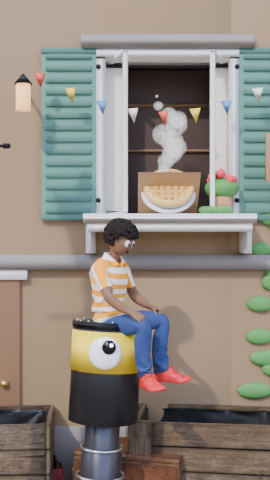
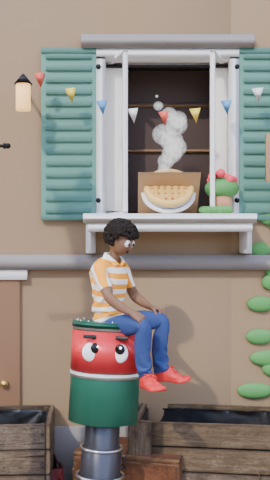
ep018 ronda 2: bolardo rediseñado
Claude-Session: https://claude.ai/code/session_01LrSQNzCqj6aM3qn1tHEPiB

Changed region(s): [[0.237, 0.6562, 0.5333, 0.9062]]

diff --git a/anim/episodes/ep018.py b/anim/episodes/ep018.py
@@ -33,11 +33,11 @@ PIE_P = Vector((WX, 1.289, SILL + 0.21))   # tarta apoyada en una tabla inclinad
 PIE_RX = 50.0
 E1, E2 = 0.7, 1.65                      # extensión: 1.er estirón (corto) y 2.º (llega)
 LEAN_PIE = Vector((0.57, 0.82))         # dirección de la inclinación hacia la ventana
-LEAN_EAT = Vector((0.60, -0.80))        # inclinación hacia el hombre en el remate
+LEAN_EAT = Vector((0.30, -0.95))        # inclinación hacia el hombre en el remate
 MAN_D = Vector((BP.x + 0.88, BP.y - 0.55, 0.0))   # hombre de pie junto al bolardo (remate y final)
 YAW_D = -42.0
 F_GRAB, F_DESC0, F_DESC1, F_CUT_D, F_CUT_E = 150, 170, 192, 196, 270
-F_LID0, F_CHOMP, F_SHRUG = 212, 236, 246
+F_LID0, F_CHOMP, F_SHRUG = 212, 240, 250
 
 
 def R(d): return math.radians(d)
@@ -73,9 +73,9 @@ def lean_pie(f):
 def lean_eat(f):
     if f < F_LID0: return 0.0
     if f < F_LID0 + 16: return 0.42 * seg01(f, F_LID0, F_LID0 + 16)
-    if f < F_CHOMP - 2: return 0.42
-    if f < F_CHOMP + 3: return lerp(0.42, 0.62, seg01(f, F_CHOMP - 2, F_CHOMP + 3))
-    if f < F_CHOMP + 18: return lerp(0.62, 0.0, seg01(f, F_CHOMP + 3, F_CHOMP + 18))
+    if f < F_CHOMP - 8: return 0.42
+    if f < F_CHOMP + 4: return lerp(0.42, 0.60, seg01(f, F_CHOMP - 8, F_CHOMP + 4))
+    if f < F_CHOMP + 20: return lerp(0.60, 0.0, seg01(f, F_CHOMP + 4, F_CHOMP + 20))
     return 0.0
 
 
@@ -83,14 +83,14 @@ def lid_open(f):
     """Ángulo (grados) de la tapa-boca del bolardo."""
     if f < F_LID0: return 0.0
     if f < F_LID0 + 10: return 100.0 * seg01(f, F_LID0, F_LID0 + 10)
-    if f < F_CHOMP - 2: return 100.0 + 3 * math.sin((f - F_LID0) * 0.7)
-    if f < F_CHOMP + 2: return lerp(100.0, 0.0, seg01(f, F_CHOMP - 2, F_CHOMP + 2))
-    if f < F_CHOMP + 7: return 14.0 * math.sin(math.pi * (f - F_CHOMP - 2) / 5.0)     # rebota al cerrar
+    if f < F_CHOMP - 6: return 100.0 + 3 * math.sin((f - F_LID0) * 0.7)
+    if f < F_CHOMP + 4: return lerp(100.0, 0.0, seg01(f, F_CHOMP - 6, F_CHOMP + 4))
+    if f < F_CHOMP + 9: return 14.0 * math.sin(math.pi * (f - F_CHOMP - 4) / 5.0)     # rebota al cerrar
     return 0.0
 
 
 def bulge(f):
-    t = f - (F_CHOMP + 3)
+    t = f - (F_CHOMP + 5)
     return 0.16 * math.sin(math.pi * t / 10.0) if 0 <= t <= 10 else 0.0
 
 
@@ -99,11 +99,11 @@ def shake(f):
 
 
 # mirada del ojo: (fotograma, gx, gz, párpado superior 0-1, inferior 0-1, tamaño del ojo)
-GAZE = [(1, 0.55, 0.85, 0.0, 0.0, 1.10), (36, 0.55, 0.85, 0.0, 0.0, 1.25), (46, 0.55, 0.9, 0.0, 0.0, 1.25),
+GAZE = [(1, 0.35, 1.0, 0.0, 0.0, 1.20), (36, 0.35, 1.0, 0.0, 0.0, 1.40), (46, 0.55, 0.9, 0.0, 0.0, 1.25),
         (72, 0.55, 1.0, 0.0, 0.0, 1.2), (100, 0.6, 1.0, 0.1, 0.0, 1.2), (104, 0.6, 1.0, 0.45, 0.25, 1.15), (120, 0.6, 1.0, 0.5, 0.3, 1.15),
         (123, 0.6, 1.0, 0.0, 0.0, 1.25), (146, 0.5, 0.7, 0.0, 0.0, 1.3), (158, 0.1, -0.6, 0.0, 0.0, 1.15), (190, -0.1, -0.5, 0.4, 0.4, 1.1),
         (F_CUT_D, 0.2, -0.3, 0.0, 0.0, 1.2), (F_LID0 - 2, 0.2, -0.3, 0.0, 0.0, 1.3), (F_CHOMP - 1, 0.3, -0.2, 0.0, 0.0, 1.4),
-        (F_CHOMP + 2, 0.0, 0.0, 0.9, 0.9, 1.1), (F_SHRUG + 4, 0.0, 0.0, 0.9, 0.9, 1.1), (262, 0.0, 0.0, 1.0, 1.0, 1.1),
+        (F_CHOMP + 6, 0.0, 0.0, 0.9, 0.9, 1.1), (F_SHRUG + 4, 0.0, 0.0, 0.9, 0.9, 1.1), (262, 0.0, 0.0, 1.0, 1.0, 1.1),
         (267, 0.0, 0.0, 1.0, 1.0, 1.1), (272, 0.3, 0.9, 0.0, 0.0, 1.1), (284, 0.5, 0.9, 0.0, 0.0, 1.2), (300, 0.55, 0.85, 0.0, 0.0, 1.3),
         (312, 0.55, 0.85, 0.0, 0.0, 1.3)]
 
@@ -254,8 +254,8 @@ def build_facade(S):
 
 # ------------------------------------------------------------------ bolardo
 def build_bollard(S):
-    black = mmat(S, "bolardo_negro", (0.015, 0.015, 0.018), 0.35, 0.2); steel = mmat(S, "bolardo_acero", (0.55, 0.55, 0.57), 0.25, 0.95)
-    yel = mmat(S, "bolardo_banda", (0.98, 0.74, 0.03), 0.45); tooth = mmat(S, "diente", (0.95, 0.92, 0.82), 0.35)
+    black = mmat(S, "bolardo_verde", (0.025, 0.16, 0.10), 0.35, 0.35); steel = mmat(S, "bolardo_acero", (0.55, 0.55, 0.57), 0.25, 0.95)
+    yel = mmat(S, "bolardo_banda_roja", (0.78, 0.04, 0.05), 0.35, 0.1); refl = mmat(S, "bolardo_reflectante", (0.92, 0.92, 0.90), 0.25, 0.2); brow_m = mmat(S, "ceja", (0.01, 0.03, 0.02), 0.5); tooth = mmat(S, "diente", (0.95, 0.92, 0.82), 0.35)
     throat = mmat(S, "garganta", (0.35, 0.02, 0.04), 0.5); ring_m = mmat(S, "anillo_tel", (0.07, 0.07, 0.08), 0.3, 0.6)
     white = mmat(S, "ojo_blanco", (0.97, 0.97, 0.95), 0.25); pup = mmat(S, "pupila", (0.0, 0.0, 0.0), 0.15); glint = mmat(S, "brillo", (1, 1, 1), 0.1, 0.0, ((1, 1, 1), 3.0))
     bol = S.empty("bolardo", (BP.x, BP.y, 0))
@@ -270,7 +270,9 @@ def build_bollard(S):
     head = S.empty("cabeza_b", (0, 0, 0.2), bol)
     O(S, "cylinder", "cabeza", black, (0, 0, 0.40), (0.30, 0.30, 0.40), parent=head, vertices=48)
     O(S, "cylinder", "banda", yel, (0, 0, 0.60), (0.306, 0.306, 0.17), parent=head, vertices=48)
-    O(S, "cylinder", "garganta", throat, (0, 0, 0.792), (0.27, 0.27, 0.004), parent=head, vertices=40)
+    for zz in (0.60 - 0.135, 0.60 + 0.135, 0.60):       # franjas blancas reflectantes
+        O(S, "cylinder", "franja", refl, (0, 0, zz), (0.3085, 0.3085, 0.018), parent=head, vertices=48) if zz != 0.60 else None
+    O(S, "cylinder", "garganta", throat, (0, 0, 0.803), (0.27, 0.27, 0.004), parent=head, vertices=40)
     for i in range(16):
         a = R(i * 22.5 + 10); O(S, "cone", "diente_b", tooth, (0.27 * math.cos(a), 0.27 * math.sin(a), 0.83), (0.024, 0.024, 0.034), parent=head, vertices=8, radius1=1.0, radius2=0.0, depth=2.0)
     hinge = S.empty("bisagra_tapa", (0, 0.30, 0.81), head)
@@ -278,16 +280,19 @@ def build_bollard(S):
     O(S, "cylinder", "tapa_borde", steel, (0, -0.30, 0.03), (0.30, 0.30, 0.006), parent=hinge, vertices=48)
     for i in range(16):
         a = R(i * 22.5 + 25); O(S, "cone", "diente_t", tooth, (0.27 * math.cos(a), -0.30 + 0.27 * math.sin(a), -0.04), (0.024, 0.024, 0.034), (R(180), 0, 0), parent=hinge, vertices=8, radius1=1.0, radius2=0.0, depth=2.0)
-    # UN ojo grande en la banda
-    EZ, EY = 0.60, -0.292
-    eye = S.empty("ojo", (0, EY, EZ), head)
-    ball = O(S, "uv_sphere", "ojo_bola", white, (0, 0, 0), (0.115, 0.055, 0.115), parent=eye, segments=24, ring_count=12)
-    pupil = O(S, "uv_sphere", "pupila", pup, (0, -0.046, 0), (0.058, 0.03, 0.058), parent=eye, segments=20, ring_count=10)
-    gl = O(S, "uv_sphere", "brillo", glint, (0.02, -0.07, 0.02), (0.016, 0.01, 0.016), parent=eye, segments=10, ring_count=6)
-    lt = O(S, "uv_sphere", "parpado_s", yel, (0, -0.005, 0.25), (0.132, 0.066, 0.132), parent=eye, segments=24, ring_count=12)
-    lb = O(S, "uv_sphere", "parpado_i", yel, (0, -0.005, -0.25), (0.132, 0.066, 0.132), parent=eye, segments=24, ring_count=12)
-    line = O(S, "uv_sphere", "linea_feliz", pup, (0, -0.074, 0), (0.001, 0.008, 0.010), parent=eye, segments=12, ring_count=6)
-    return {"bol": bol, "rings": rings, "head": head, "hinge": hinge, "eye": eye, "ball": ball, "pupil": pupil, "glint": gl, "lt": lt, "lb": lb, "line": line}
+    # DOS ojos pequeños con párpados y cejas, en la banda roja
+    EZ = 0.60; eyes = []
+    for sx in (-1, 1):
+        ex = sx * 0.115; ey = -math.sqrt(0.30 ** 2 - ex ** 2) + 0.012
+        eye = S.empty("ojo", (ex, ey, EZ), head); eye.rotation_euler = (0, 0, R(sx * -22))
+        ball = O(S, "uv_sphere", "ojo_bola", white, (0, 0, 0), (0.075, 0.04, 0.075), parent=eye, segments=24, ring_count=12)
+        pupil = O(S, "uv_sphere", "pupila", pup, (0, -0.034, 0), (0.040, 0.022, 0.040), parent=eye, segments=16, ring_count=8)
+        gl = O(S, "uv_sphere", "brillo", glint, (0.01, -0.05, 0.012), (0.011, 0.007, 0.011), parent=eye, segments=8, ring_count=6)
+        lt = O(S, "uv_sphere", "parpado_s", black, (0, -0.004, 0.2), (0.088, 0.046, 0.05), parent=eye, segments=20, ring_count=10)
+        lb = O(S, "uv_sphere", "parpado_i", black, (0, -0.004, -0.2), (0.088, 0.046, 0.05), parent=eye, segments=20, ring_count=10)
+        brow = O(S, "cube", "ceja", brow_m, (0, -0.03, 0.115), (0.085, 0.012, 0.014), parent=eye)
+        eyes.append({"sx": sx, "eye": eye, "ball": ball, "pupil": pupil, "glint": gl, "lt": lt, "lb": lb, "brow": brow})
+    return {"bol": bol, "rings": rings, "head": head, "hinge": hinge, "eyes": eyes}
 
 
 # ------------------------------------------------------------------ tarta
@@ -397,19 +402,23 @@ def l1(S):
         h.keyframe_insert("location", frame=f); h.keyframe_insert("scale", frame=f)
         bl["hinge"].rotation_euler = (-R(lid_open(f)), 0, 0); bl["hinge"].keyframe_insert("rotation_euler", frame=f)
         gx, gz, st, sb, wd = gaze(f)
-        vib = 0.12 * shake(f)
-        bl["ball"].scale = (0.115 * wd, 0.055, 0.115 * wd); bl["ball"].keyframe_insert("scale", frame=f)
-        bl["pupil"].location = (0.052 * gx + vib * 0.1, -0.046 * wd, 0.052 * gz); bl["pupil"].scale = (0.058 * (1.0 + 0.2 * (wd - 1.1)), 0.03, 0.058 * (1.0 + 0.2 * (wd - 1.1)))
-        bl["glint"].location = (0.052 * gx + 0.02, -0.07 * wd, 0.052 * gz + 0.02)
-        for o in (bl["pupil"], bl["glint"]): o.keyframe_insert("location", frame=f)
-        bl["pupil"].keyframe_insert("scale", frame=f)
-        zs = 0.115 * wd
-        for o, cv, sg in ((bl["lt"], st, 1), (bl["lb"], sb, -1)):
-            rl = 0.132 * wd; rz = 0.072 * wd; k = (1.0 if cv >= 0.3 else 0.0) + 0.0005
-            o.location = (0, -0.005, sg * (zs * (1.0 - cv) + rz))
-            o.scale = (rl * k, 0.066 * k, rz * k); o.keyframe_insert("location", frame=f); o.keyframe_insert("scale", frame=f)
-        cl = 1.0 if (st > 0.85 and sb > 0.85) else 0.0
-        bl["line"].scale = (0.1 * cl + 0.001, 0.008, 0.008 + 0.004 * cl); bl["line"].keyframe_insert("scale", frame=f)
+        vib = 0.12 * shake(f); w = wd / 1.1
+        for E_ in bl["eyes"]:
+            sx = E_["sx"]
+            E_["ball"].scale = (0.075 * w, 0.04, 0.075 * w); E_["ball"].keyframe_insert("scale", frame=f)
+            E_["pupil"].location = (0.036 * gx + vib * 0.05, -0.034 * w, 0.036 * gz); E_["pupil"].scale = (0.040 * w, 0.022, 0.040 * w)
+            E_["glint"].location = (0.036 * gx + 0.012, -0.05 * w, 0.036 * gz + 0.014)
+            for o in (E_["pupil"], E_["glint"]): o.keyframe_insert("location", frame=f)
+            E_["pupil"].keyframe_insert("scale", frame=f)
+            zs = 0.075 * w
+            for o, cv, sg in ((E_["lt"], st, 1), (E_["lb"], sb, -1)):
+                rl = 0.088 * w; rz = 0.05 * w; k = (1.0 if cv >= 0.3 else 0.0) + 0.0005
+                o.location = (0, -0.004, sg * (zs * (1.0 - cv) + rz))
+                o.scale = (rl * k, 0.046 * k, rz * k); o.keyframe_insert("location", frame=f); o.keyframe_insert("scale", frame=f)
+            tilt = 0.55 * st - 0.9 * max(0.0, w - 1.0)          # esfuerzo = ceja hacia dentro/abajo; deseo = cejas arriba y caídas hacia fuera
+            E_["brow"].location = (0, -0.03, 0.115 * w + 0.03 * max(0.0, w - 1.0) * 3 - 0.05 * st)
+            E_["brow"].rotation_euler = (0, R(-sx * 25 * tilt * -1), 0); E_["brow"].scale = (0.085, 0.012, 0.014)
+            for pth in ("location", "rotation_euler"): E_["brow"].keyframe_insert(pth, frame=f)
     # sonrisa feliz: línea del ojo cerrado curvada (se queda recta, el parpadeo la lee como ojo cerrado contento)
 
     # ---- tarta: sobre el alféizar, a las manos, en brazos, a la boca; reaparece al final ----
@@ -424,15 +433,15 @@ def l1(S):
             u = seg01(f, F_GRAB, F_GRAB + 8)
             hp = hand_mid(S, a, F_GRAB + 8); fw = Vector((math.sin(R(yaw(F_GRAB + 8))), -math.cos(R(yaw(F_GRAB + 8))), 0)); tgt = hp + fw * 0.22 + Vector((0, 0, 0.05))
             p = parab(PIE_P, tgt, 0.25, u); rot = (R(PIE_RX * (1 - u)), 0, R(40 * u))
-        elif f < F_CHOMP - 4:
+        elif f < F_CHOMP - 9:
             hp = hand_mid(S, a, f); fw = Vector((math.sin(R(yaw(f))), -math.cos(R(yaw(f))), 0)); p = hp + fw * 0.22 + Vector((0, 0, 0.05))
             rot = (0, 0, R(40))
             if f >= F_CUT_D: p = hp + fw * 0.20 + Vector((0, 0, 0.07))
-        elif f < F_CHOMP + 3:
-            hp = hand_mid(S, a, F_CHOMP - 4); fw = Vector((math.sin(R(YAW_D)), -math.cos(R(YAW_D)), 0)); p0 = hp + fw * 0.20 + Vector((0, 0, 0.07))
-            L2 = lean_eat(F_CHOMP + 2); m = Euler((-L2 * LEAN_EAT.y, L2 * LEAN_EAT.x, 0)).to_matrix()
+        elif f < F_CHOMP + 4:
+            hp = hand_mid(S, a, F_CHOMP - 9); fw = Vector((math.sin(R(YAW_D)), -math.cos(R(YAW_D)), 0)); p0 = hp + fw * 0.20 + Vector((0, 0, 0.07))
+            L2 = lean_eat(F_CHOMP + 3); m = Euler((-L2 * LEAN_EAT.y, L2 * LEAN_EAT.x, 0)).to_matrix()
             mouth = Vector((BP.x, BP.y, 0)) + m @ Vector((0, 0, 1.12))
-            u = seg01(f, F_CHOMP - 4, F_CHOMP + 3); p = p0.lerp(mouth, u); sc = max(0.05, 1.0 - 0.95 * u ** 2); rot = (0, 0, R(40 + 120 * u))
+            u = seg01(f, F_CHOMP - 9, F_CHOMP + 3); p = p0.lerp(mouth, u); sc = max(0.05, 1.0 - 0.95 * u ** 3); rot = (0, 0, R(40 + 120 * u))
         elif f < 276: p = Vector((0, 0, -9)); sc = 0.001
         else:
             u = min(1.0, (f - 276) / 10.0); p = PIE_P.copy(); rot = (R(PIE_RX), 0, 0); sc = (1 + 0.15 * math.sin(math.pi * u)) * sstep(u * 1.3) + 0.001

diff --git a/stories/story-021/reviews/director-visual.md b/stories/story-021/reviews/director-visual.md
@@ -7,3 +7,8 @@ Hoja: scratchpad/ep018_sheet.jpg (15 fotogramas).
 1. **Riesgo de marca (BLOQUEANTE):** cilindro AMARILLO con parte inferior negra y UN solo ojo grande = se parece a un personaje con marca registrada (Minions). Rediseño: bolardo de acero gris oscuro/verde botella con banda reflectante roja y blanca, DOS ojos pequeños con párpados y cejas (expresivos), nada de amarillo ni ojo único grande.
 2. Fotogramas 01-02: el ojo mira a cámara. Las pupilas deben mirar ARRIBA hacia la tarta (deseo legible).
 3. Bocado (11-12): que dure ~10 fotogramas, con la boca abierta orientada a cámara (interior oscuro visible) y la tarta entrando entera.
+
+# Ronda 2
+- Bolardo rediseñado (verde botella, banda roja con franjas blancas, dos ojos con párpados y cejas): sin parecido con personajes con marca. PASA.
+- Pupilas hacia la tarta, bocado ~10 fotogramas con interior rojo y dientes: se lee.
+- Pendiente: brazo horizontal rígido en 12-14 (pose T) → corrección pedida.
